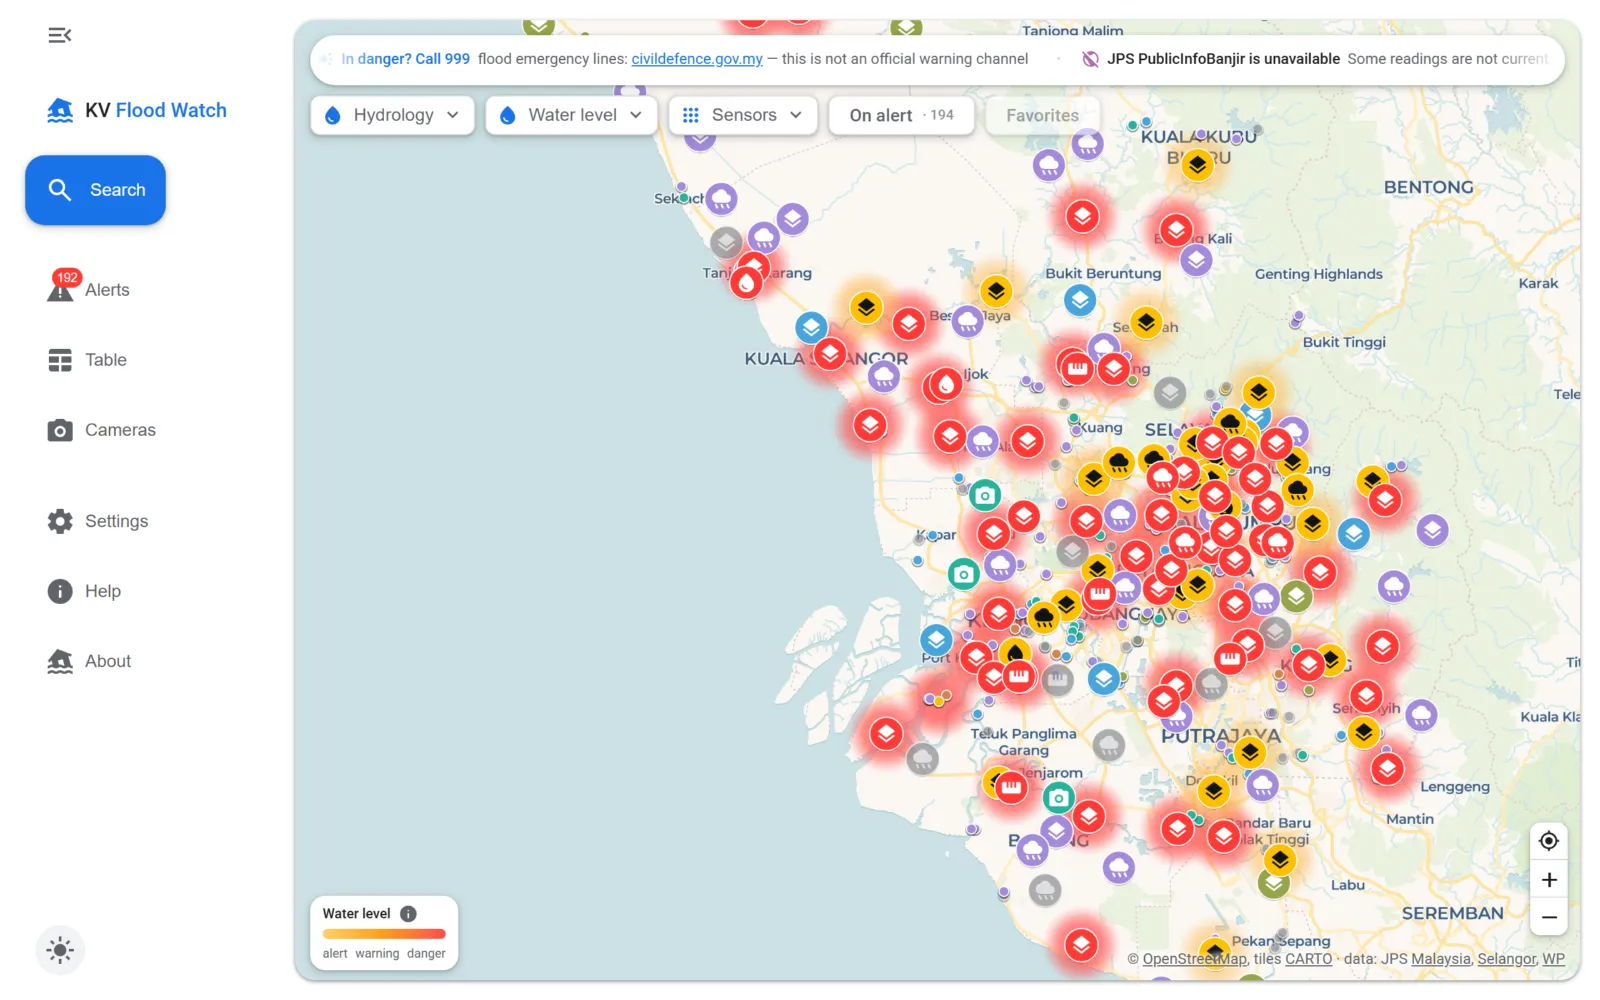
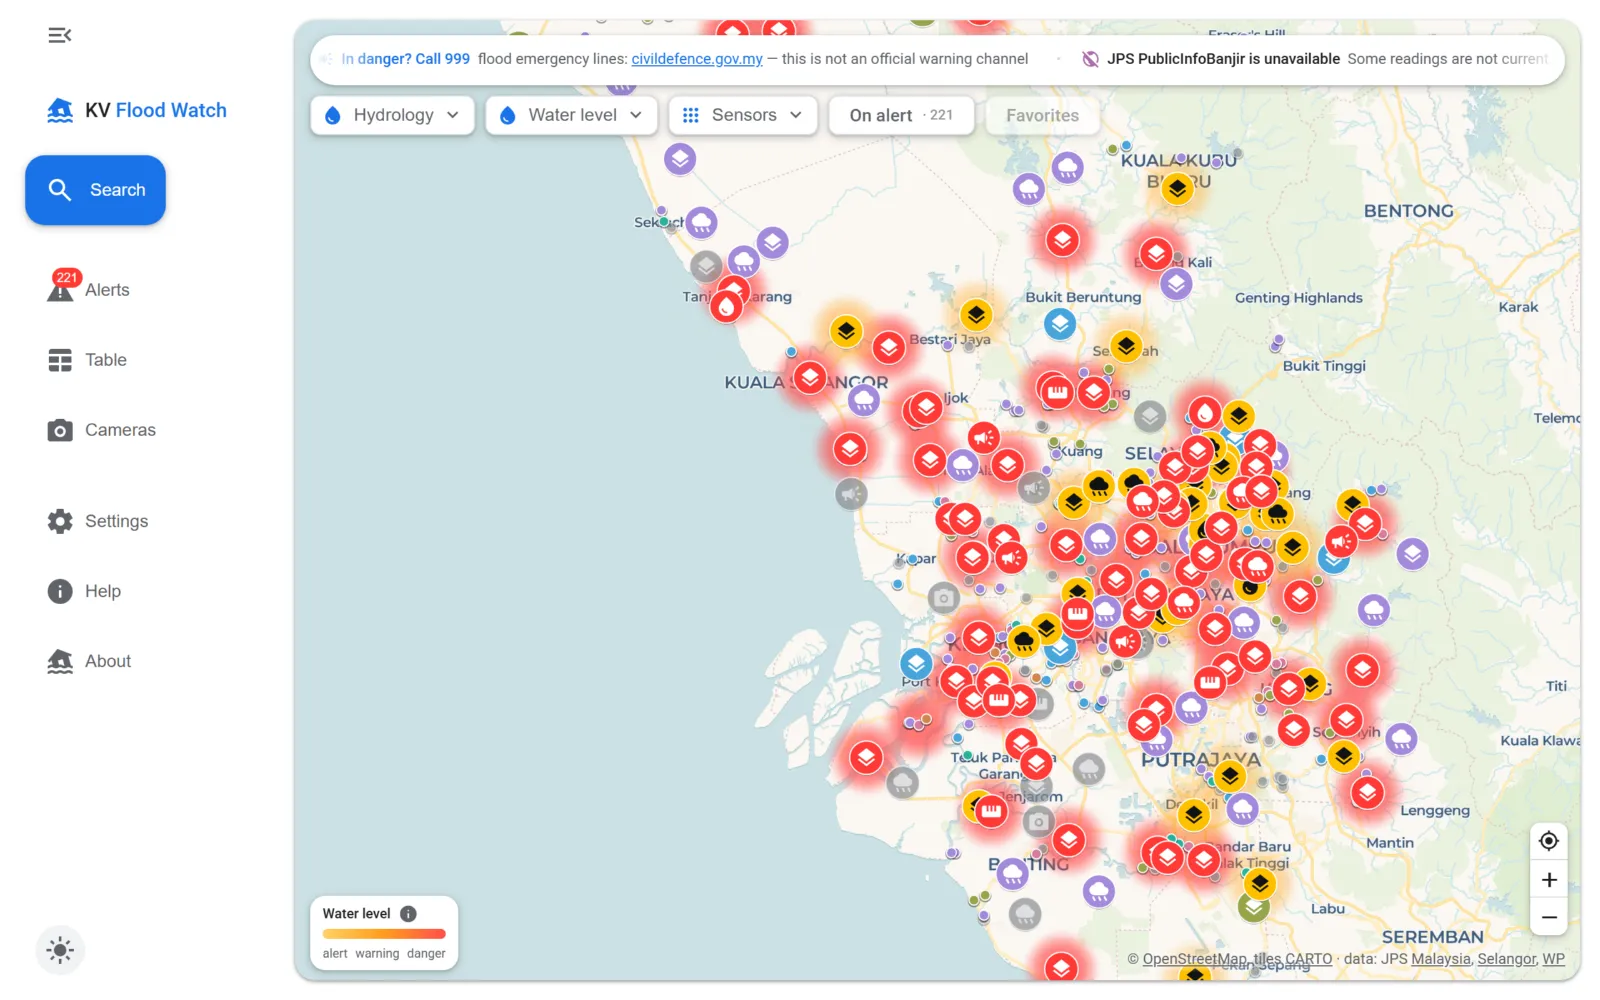
fix: make the On alert chip print the badge count
The chip counted every station on alert. The Alerts badge leaves out
stale alerts, so the chip printed 19 over a badge of 17.

The chip count now leaves out stale alerts too. The filter still shows
stale pins. A chip with only stale alerts stays enabled and prints no
count.

Add the three cases to paint-check.html. Rebake the Help screenshots.

diff --git a/js/render.js b/js/render.js
@@ -3,7 +3,7 @@
 import { KINDS, MAST, HEAT_FLOOR, HEAT_KM, RAIN_KM, RAIN_STOPS, DARK_INK_FILL } from './config.js';
 import { state, PREFS, save } from './state.js';
 import { el, color, atDanger, statusColor, leads, hasInfo, isIgnored, ignoredIds,
-         favIds, isFav, scalePos, levelStops, gaugeStops, setBox, isHot, doubted, faultWhy } from './util.js';
+         favIds, isFav, scalePos, levelStops, gaugeStops, setBox, isHot, tier, doubted, faultWhy } from './util.js';
 import { marks, siteMark, shown, syncCluster, focusOn, side, openSide,
          showMast, hideMast, markSel, pinGlyph } from './map.js';
 import { heat, rainHeat, syncHeat, thinHeat } from './heat.js';
@@ -33,15 +33,18 @@ function syncPins() {
      `isHot()`. The chip read the forecast flag alone, so a sounding siren, a river already at its
      danger mark and heavy rain lit the map and left the chip dead. The repository owner widened it
      on 2026-08-26. The cost is that there is no way left to ask for climbing rivers alone.
-     Ignored sensors are excluded, the same rule the alert panel obeys, so the number here and the
-     number in the app bar are one number. */
-  const rising = state.data.filter(s => !isIgnored(s) && isHot(s)).length;
+     Ignored sensors are excluded, the same rule the alert panel obeys.
+     **The filter and the count are two different sets.** The filter holds every alert, because a
+     stale alert stays on the map. The count leaves a stale alert out, the same as the app bar badge,
+     so the two surfaces print one number. A chip with only stale alerts stays live and prints none. */
+  const hot = state.data.filter(s => !isIgnored(s) && isHot(s));
+  const live = hot.filter(s => tier(s) !== 'stale').length;
   const starred = state.data.filter(isFav).length;
 
   // Only on the way into the empty state. This runs on every poll for every reader who has starred
   // nothing — which is every new visitor — so an unguarded write puts a localStorage write on the
   // poll loop forever, for a preference that has not moved.
-  if ((PREFS.pinFilter === 'alert' && !rising) || (PREFS.pinFilter === 'fav' && !starred)) {
+  if ((PREFS.pinFilter === 'alert' && !hot.length) || (PREFS.pinFilter === 'fav' && !starred)) {
     PREFS.pinFilter = '';
     save();
   }
@@ -51,12 +54,12 @@ function syncPins() {
      hand is the empty one, and a radio group is cleared by clearing every member. */
   const on = PREFS.pinFilter === 'fav' ? 'favOnly' : PREFS.pinFilter === 'alert' ? 'risingOnly' : '';
   for (const id of ['favOnly', 'risingOnly']) setBox(id, id === on);
-  el('risingOnly').disabled = !rising;
+  el('risingOnly').disabled = !hot.length;
   el('favOnly').disabled = !starred;
   /* The count alone, and nothing where there is none to state. The empty case used to carry a
      sentence, and the segment beside it is already dead and dimmed by `disabled`. One fact does not
      get two looks. */
-  el('risingHint').textContent = rising ? `· ${rising}` : '';
+  el('risingHint').textContent = live ? `· ${live}` : '';
   el('favHint').textContent = starred ? `· ${starred}` : '';
   return PREFS.pinFilter;
 }

diff --git a/paint-check.html b/paint-check.html
@@ -85,6 +85,37 @@ const noAnim = d.createElement('style');
 noAnim.textContent = '*{transition:none !important}';
 d.head.appendChild(noAnim);
 
+/* --- the On alert chip and the app bar badge print one number ------------------------------------
+   The chip printed 19 over a badge of 17, because it also counted two offline sirens. The live feed
+   does not always hold a stale alert, so the second half makes one. The app's module instance is the
+   only one that holds `state`, so this loads `js/probe.js` into the frame. */
+{
+  const chipN = () => el('risingHint').textContent.replace(/\D/g, '');
+  const badgeN = () => el('railAlerts').querySelector('.railbadge').textContent;
+  await until(() => chipN() === badgeN());
+  is(chipN(), badgeN(), 'the On alert chip and the Alerts badge print one number');
+
+  const probe = BASE === '/' ? '/js/probe.js'
+    : BASE + (await (await fetch(BASE + 'build.json')).json()).probe;
+  await new Promise((res, rej) => {
+    const sc = d.createElement('script');
+    sc.type = 'module'; sc.src = probe; sc.onload = res;
+    sc.onerror = () => rej(new Error('probe module did not load: ' + probe));
+    d.body.appendChild(sc);
+  });
+  await until(() => w.__probe);
+  const { state } = w.__probe, real = state.data;
+  const siren = real.find(s => s.kind === 'siren');
+  // No `await` until the real data is back, so a poll cannot land on the fake list.
+  state.data = [{ ...siren, id: 'probe-stale', site: 'probe-stale', status: 1, online: false, backed: true }];
+  state.rerender();
+  const hint = el('risingHint').textContent, off = el('risingOnly').disabled;
+  state.data = real;
+  state.rerender();
+  is(hint, '', 'a stale alert adds nothing to the count');
+  is(off, false, 'and the chip stays enabled, because the filter still has that pin to show');
+}
+
 // --- the panel and its two openers are gone ----------------------------------------------------
 /* All three went on 2026-08-25. A control that opens nothing is worse than no control, and two ways
    to one setting is two things to keep in step. This is the assertion that catches a half-finished

diff --git a/CLAUDE.md b/CLAUDE.md
@@ -975,8 +975,10 @@ order that file holds them. A trap names itself here, and the file states the ev
   **A disabled chip beside red pins reads as a fault in the app**, and the pill's sentence could not
   answer it. That sentence is on the map only while the filter is ON. The chip is dead in the exact
   case a reader asks the question.
-  **So the chip and the app bar are ONE number now.** `syncPins()` counts `!isIgnored(s) && isHot(s)`,
-  which is the alert panel's own expression. The ignore test is what makes the two agree.
+  **So the chip and the app bar are ONE number now.** `syncPins()` filters on
+  `!isIgnored(s) && isHot(s)`, which is the alert panel's own expression. Its count also leaves out
+  the `stale` tier, the same as the badge. The two printed 19 and 17 until 2026-11-18. A stale alert
+  stays under the filter, and a chip with only stale alerts stays enabled and prints no count.
   **The cost is real and is accepted.** There is no way left to ask for climbing rivers alone. A
   reader who wants that reads the alert panel, where `soon` is a tier of its own with a chip counting
   it. **Do not narrow it back without asking.** Both directions are a decision, not a bug.

diff --git a/docs/FEATURES.md b/docs/FEATURES.md
@@ -17374,6 +17374,8 @@ surface that carried the real rule was unreachable from the fault.
 `js/alerts.js`. The ignore test is what makes the two agree: `PREFS.ignored` gates every alert
 surface, so a chip counting an ignored sensor states a number the panel refuses to list.
 
+**The count changed on 2026-11-18.** The chip printed 19 over a badge of 17, because it also counted two offline sirens. The badge leaves out the `stale` tier, and now the chip count does too. The filter still holds every `isHot()` station, so a stale alert stays on the map, the same way the alert panel still lists it. A chip with only stale alerts stays enabled and prints no count. `paint-check.html` guards all three. This changes a printed number and no alert, so it needs no pass through the alert design standard.
+
 ### What it cost
 
 There is no way left to ask for climbing rivers alone. That is accepted. The alert panel keeps
